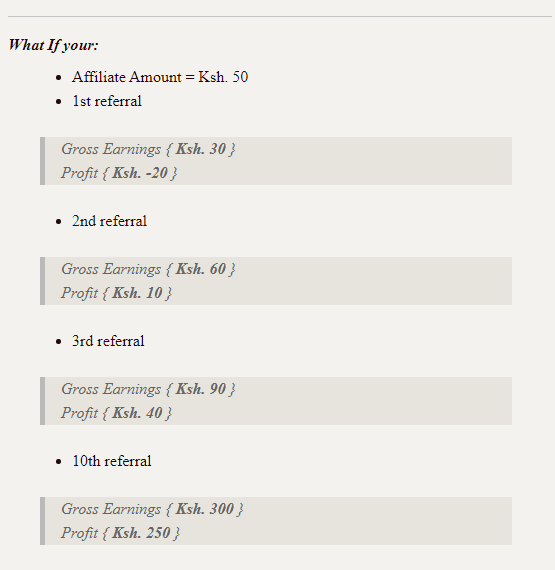
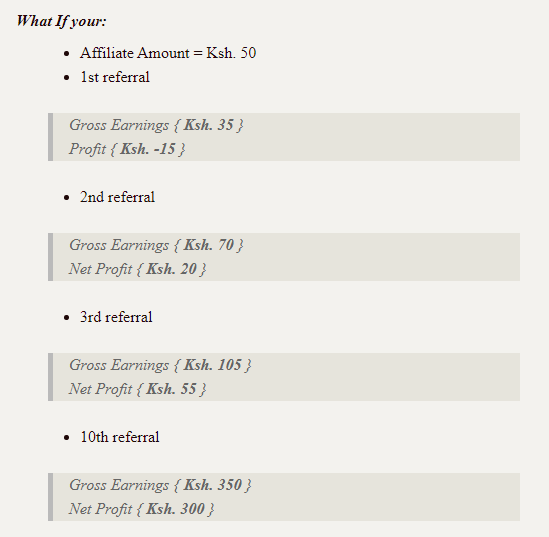
123

diff --git a/src/views/SignUp.vue b/src/views/SignUp.vue
@@ -281,8 +281,8 @@ export function dynamicInputError(
         </div>
       </div>
       <div class="flex flex-row justify-between">
-        <label for="affiliateAmount" class="flex-1 text-sm md:text-lg"
-          >AFFILIATE AMOUNT</label
+        <label for="affiliateAmount" class="text-sm md:text-lg w-fit"
+          >AFFILIATE AMOUNT <span class="text-red-800">*</span></label
         >
         <div>
           <transition name="toast-input-info">
@@ -292,28 +292,23 @@ export function dynamicInputError(
               >*affiliate amount</span
             >
           </transition>
-          <input
-            class="text-black p-1 border-slate-300 rounded-md bg-slate-300"
-            type="number"
-            disabled
-            value="50"
+          <select
+            name="referral_amount"
             id="affiliateAmount"
+            required
+            class="text-black p-1 py-3 bg-white border shadow-sm border-slate-300 placeholder-slate-400 focus:outline-none focus:border-green-500 focus:ring-green-500 focus:shadow-md focus:shadow-green-600 rounded-md focus:ring-1"
             @focus="show_input_info($event, 5, '', boolsArray)"
             @focusout="show_input_info($event, 5, '', boolsArray)"
-          />
+          >
+            <option value="50" selected>50</option>
+            <option value="100">100</option>
+            <option value="200">200</option>
+            <option value="500">500</option>
+            <option value="1000">1, 000</option>
+            <option value="5000">5, 000</option>
+            <option value="10000">10, 000</option>
+          </select>
         </div>
-        <!-- <select
-          name="referral_amount"
-          id="referral_amount"
-          required
-          class="text-black p-1 py-3 bg-white border shadow-sm border-slate-300 placeholder-slate-400 focus:outline-none focus:border-green-500 focus:ring-green-500 focus:shadow-md focus:shadow-green-600 rounded-md focus:ring-1"
-        >
-          <option value="50" selected>50</option>
-          <option value="100">100</option>
-          <option value="200">200</option>
-          <option value="500">500</option>
-          <option value="1000">1000</option>
-        </select> -->
       </div>
       <div class="flex flex-row justify-between">
         <label for="password1" class="flex-1 text-sm md:text-lg"

diff --git a/src/components/NotifyUser.vue b/src/components/NotifyUser.vue
@@ -10,7 +10,6 @@ const trueNotify = ref(true);
 function notifyUser() {
   trueNotify.value = !trueNotify.value;
 }
-if(trueNotify.value && useCounterStore().signedIn && userPaid.value) console.log("yoh")
 </script>
 
 <template>
@@ -40,7 +39,13 @@ if(trueNotify.value && useCounterStore().signedIn && userPaid.value) console.log
           />
         </div>
         <p class="text-green-300">
-          Please complete your
+          Please
+          <router-link
+            class="decoration-red-600 underline-offset-4 underline hover:text-red-600"
+            to="/affiliateTerms"
+            >complete</router-link
+          >
+          your
           <router-link
             class="decoration-red-600 underline-offset-4 underline hover:text-red-600"
             to="/associate"
@@ -58,6 +63,9 @@ if(trueNotify.value && useCounterStore().signedIn && userPaid.value) console.log
             to="IIIAffiliate"
             >affiliate program.</router-link
           >
+        </p>
+        <p class="text-green-300">
+          Send Ksh. 1 via MPESA Pochi-La-Biashara to 0110178773.
         </p>
       </section>
     </transition-group>

diff --git a/src/views/TermsAndConditions.vue b/src/views/TermsAndConditions.vue
@@ -91,7 +91,7 @@ setInterval(() => {
         </li>
         <li>
           You get a
-          <span class="text-xl text-green-400 font-black">60%</span>
+          <span class="text-xl text-green-400 font-black">70%</span>
           return on every successful referral sign up. Which means after 2
           referrals your account will be running on
           <span class="text-xl text-green-400 font-black">profit</span>.
@@ -171,7 +171,7 @@ setInterval(() => {
                 @focusout="show_input_info($event, 2, '', boolsArray)"
                 id="total_earnings"
                 :value="
-                  0.6 * affiliate_amount * number_of_referrals -
+                  0.7 * affiliate_amount * number_of_referrals -
                   affiliate_amount
                 "
                 class="w-7/12 rounded-lg text-black p-1 pl-8 py-2 bg-white border shadow-sm border-slate-300 placeholder-slate-400 focus:outline-none focus:border-green-500 focus:ring-green-500 focus:shadow-md focus:shadow-green-600 focus:ring-1"
